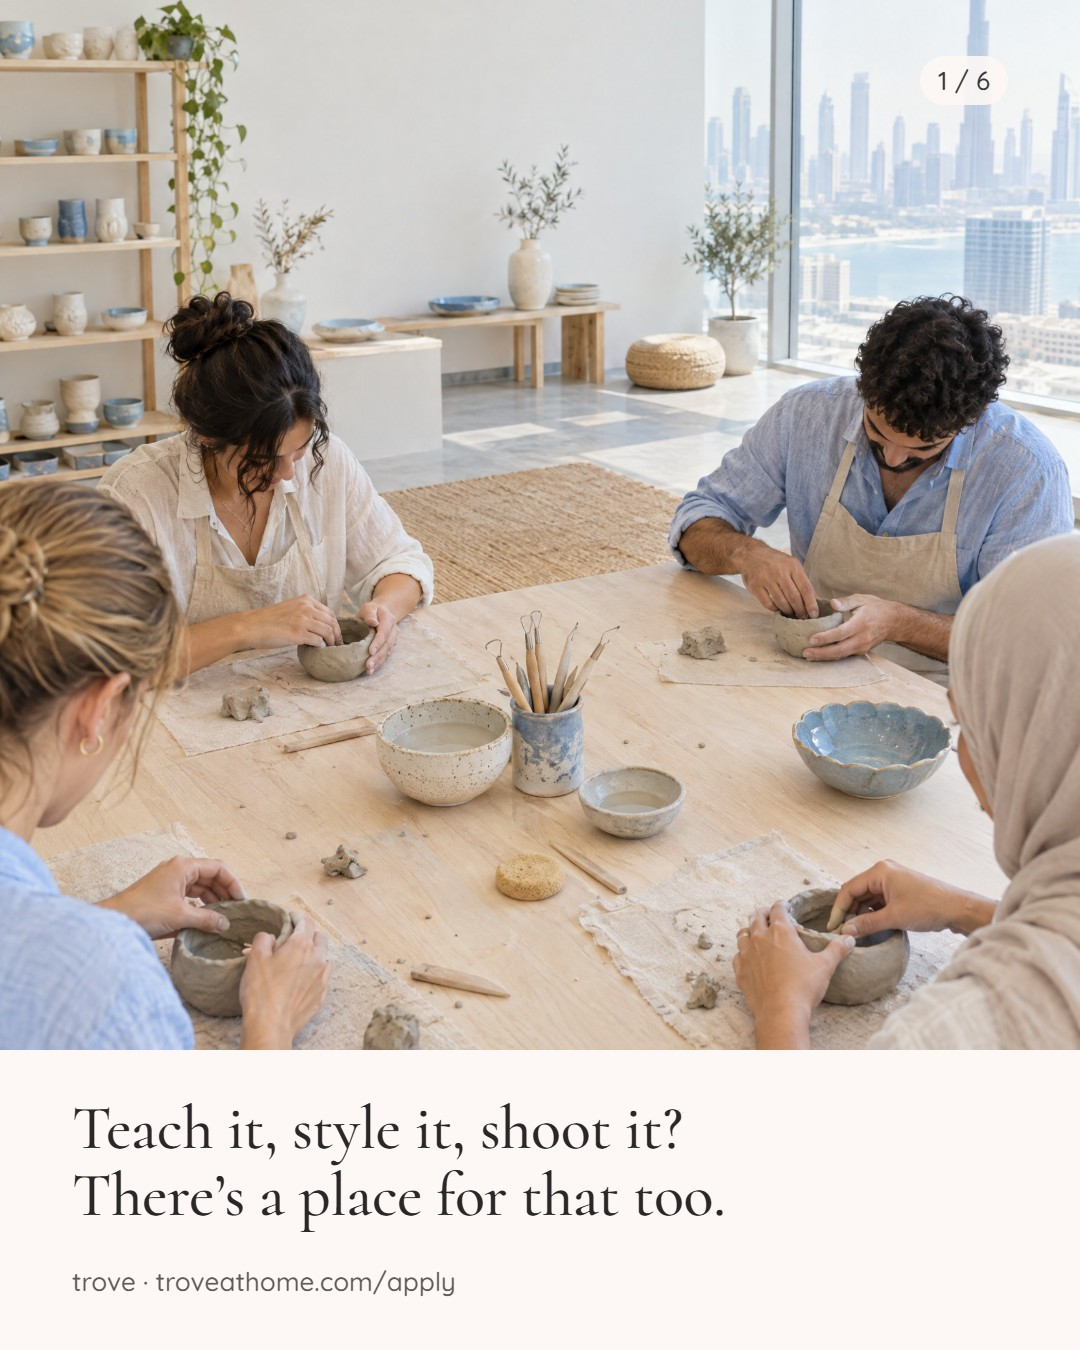
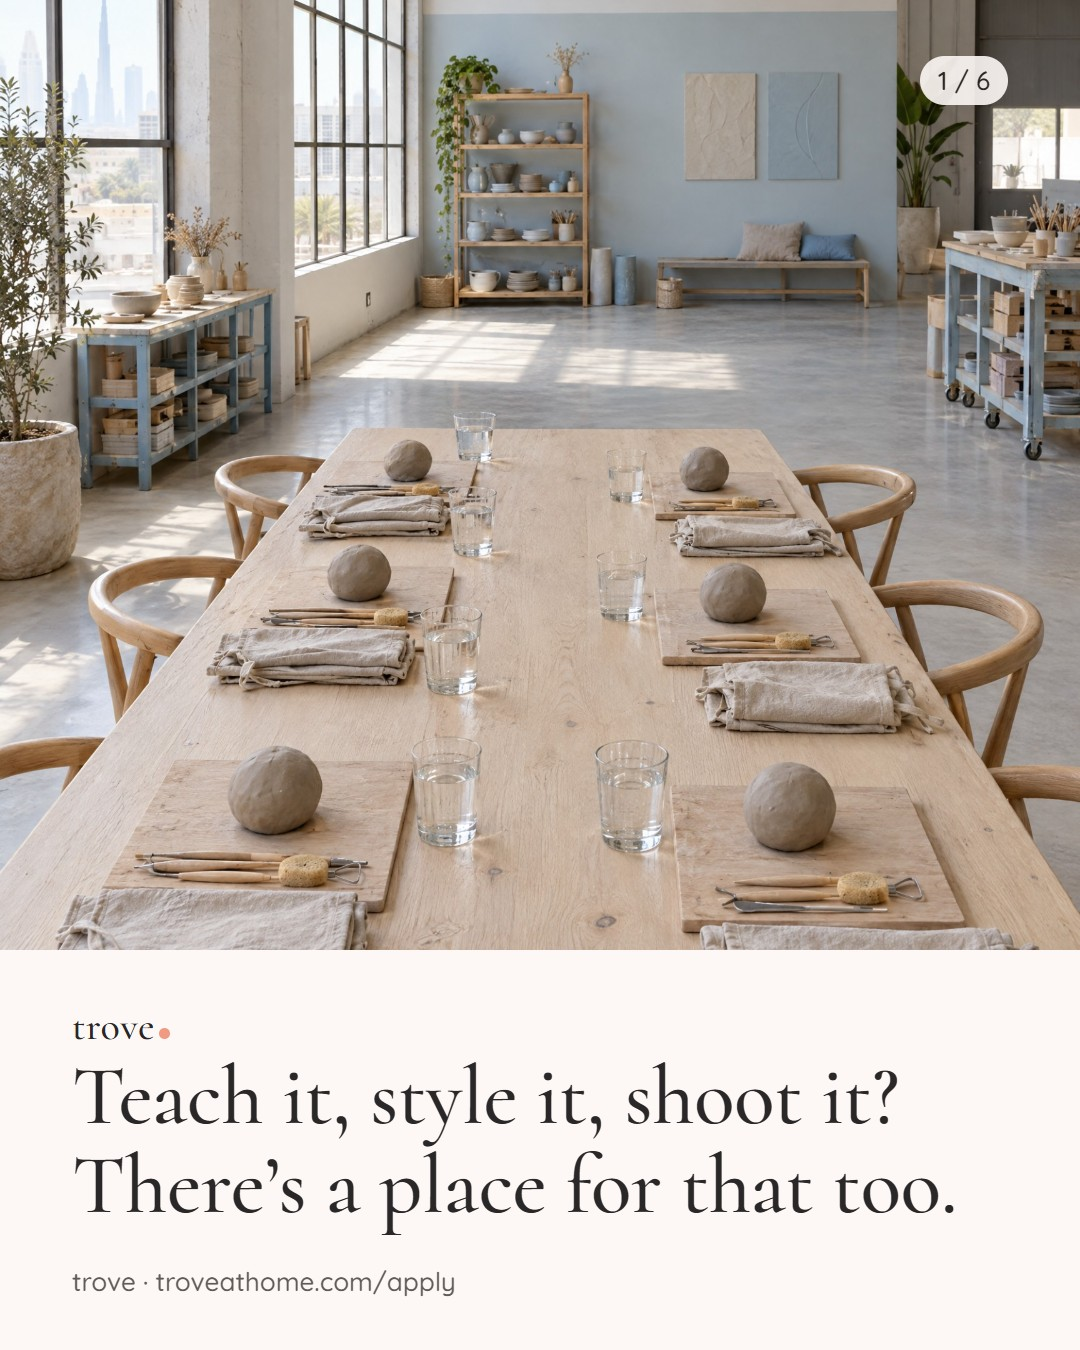
Social: rework Phase 1 creatives to the launch guidance (show craft, mood-only AI images)

diff --git a/social/phase1/gallery.html b/social/phase1/gallery.html
@@ -20,6 +20,7 @@ h1 i{display:inline-block;width:.16em;height:.16em;border-radius:50%;background:
 .key{display:flex;flex-wrap:wrap;gap:10px 18px;margin-top:20px;font-size:14px}
 .chip{display:inline-flex;align-items:center;gap:6px;border-radius:999px;padding:3px 11px;font-size:12.5px;font-weight:600;background:var(--ok);color:var(--fg)}
 .chip.todo{background:var(--todo)}
+.chip.mood{background:transparent;border:1px solid var(--tan)}
 section{border-top:1px solid var(--line);margin-top:44px;padding-top:26px}
 .head{display:flex;flex-wrap:wrap;align-items:baseline;gap:6px 16px}
 h2{font-size:34px;line-height:1.1}
@@ -37,10 +38,11 @@ figcaption{font-size:12.5px;color:var(--muted);display:flex;flex-wrap:wrap;gap:4
 
 <div class="wrap">
   <h1>Trove Phase 1 creatives<i></i></h1>
-  <p class="lede">Every frame for posts 1 to 10 of the founding-maker campaign, in the brand palette and type. Slides are 1080 × 1350 (4:5). Reel frames are 1080 × 1920 (9:16) and keep their text inside the grid-safe centre. Tap any frame to see it full size.</p>
+  <p class="lede">Built to the launch guidance: show the real thing, not just say it. Every post opens on craft (a bench, materials, a studio, a Dubai home), real makers fill the spotlight slots, and generated images are used only for mood and the Collection tease. Every frame for posts 1 to 10 of the founding-maker campaign, in the brand palette and type. Slides are 1080 × 1350 (4:5). Reel frames are 1080 × 1920 (9:16) and keep their text inside the grid-safe centre. Tap any frame to see it full size.</p>
   <div class="key">
     <span><span class="chip">Ready</span> can be posted as it is</span>
     <span><span class="chip todo">Needs input</span> a dashed box or photo slot is still waiting for a real maker, provider or photo</span>
+    <span><span class="chip mood">Mood image</span> made with Higgsfield: materials, tools or spaces only, never shown as a maker’s work</span>
   </div>
   <div id="posts"></div>
   <div class="where">
@@ -50,16 +52,16 @@ figcaption{font-size:12.5px;color:var(--muted);display:flex;flex-wrap:wrap;gap:4
 
 <script>
 const POSTS = {
-  1: ['Made here, by someone', 'Tue 21 Oct', 'Reel', 'Film 3-second hands-at-work clips from 4–5 real makers. Lay the name tag over each clip with the maker’s real first name and neighbourhood. Cover and end card are ready.'],
-  2: ['What you don’t need', 'Fri 24 Oct', 'Carousel, 7 slides', 'Ready to post once a business adviser confirms the “no trade licence to start” line.'],
+  1: ['Made here, by someone', 'Tue 21 Oct', 'Reel', 'Shows real craft across the UAE. Film 3-second hands-at-work clips from 4–5 real makers, lay the name tag over each with their real first name and neighbourhood, and use a frame of that footage as the cover.'],
+  2: ['What you don’t need', 'Fri 24 Oct', 'Carousel, 7 slides', 'Opens on a maker’s bench and closes on raw materials (“just your work”), with the crossed-out list in between. Ready once a business adviser confirms the “no trade licence to start” line.'],
   3: ['Meet our first maker', 'Mon 27 Oct', 'Reel + carousel, 6 slides', 'Needs a real founding maker: name, craft, neighbourhood, years, their own sentence and three photos (portrait, workspace, finished piece).'],
-  4: ['Set your price. Keep 60%', 'Thu 30 Oct', 'Carousel, 6 slides', 'Ready. Figures match the live Sell on Trove page.'],
-  5: ['Teach it, style it, shoot it?', 'Sun 2 Nov', 'Carousel, 6 slides', 'Ready. The cover photo is an illustrative image made with Higgsfield, not a Trove workshop. Swap in a real provider’s class when you have one.'],
-  6: ['Something of our own', 'Wed 5 Nov', 'Single image', 'Two options. The photo version uses an illustrative Higgsfield sketch and glaze-test still. A real photo from the Trove Collection design table is better if you have one. The text-only version is the fallback.'],
-  7: ['Apply in ten minutes', 'Sat 8 Nov', 'Reel', 'Film a real maker applying on their phone, with a timer running. Lay the four step captions over the matching clips. Cover and end card are ready.'],
-  8: ['Meet our first provider', 'Tue 11 Nov', 'Reel', 'Needs a real founding provider filmed mid-class. Fill in the name, service and neighbourhood on the end card.'],
-  9: ['More being made here than you think', 'Fri 14 Nov', 'Carousel, 8 slides', 'Each middle slide needs a real photo of a real maker’s work, with the neighbourhood confirmed. Dubai and Abu Dhabi areas only. AI images are deliberately not used here, because the slides name real places.'],
-  10: ['From sold to paid', 'Mon 17 Nov', 'Reel, 5 scenes', 'Ready as a stills Reel (about 2.5 seconds per frame), or use the scenes as a shot list for real footage. The scene photos are illustrative Higgsfield images.'],
+  4: ['Set your price. Keep 60%', 'Thu 30 Oct', 'Carousel, 6 slides', 'Opens on a blank price tag on a workbench: the maker sets the price. Figures match the live Sell on Trove page.'],
+  5: ['Teach it, style it, shoot it?', 'Sun 2 Nov', 'Carousel, 6 slides', 'Opens on a studio table set for a class, before anyone arrives. Swap in a real provider’s class when you have one.'],
+  6: ['Something of our own', 'Wed 5 Nov', 'Single image', 'Collection tease: a sketch and glaze tests, no finished product. A mood image is allowed here by the strategy. The text-only version is the fallback.'],
+  7: ['Apply in ten minutes', 'Sat 8 Nov', 'Reel', 'Shows how easy it is, with a real maker. Film them applying on their phone with a timer running, lay the four step captions over the matching clips, and use a frame as the cover.'],
+  8: ['Meet our first provider', 'Tue 11 Nov', 'Reel', 'Needs a real founding provider filmed mid-class, with a happy group holding what they made. Fill in the name, service and neighbourhood.'],
+  9: ['More being made here than you think', 'Fri 14 Nov', 'Carousel, 8 slides', 'Opens on a home studio window over a Dubai neighbourhood. Each middle slide needs a real photo of a real maker’s work with the neighbourhood confirmed (Dubai and Abu Dhabi only). No AI images there, because the slides name real makers and places.'],
+  10: ['From sold to paid', 'Mon 17 Nov', 'Reel, 5 scenes', 'The five steps from the site, shown in Dubai homes. Ready as a stills Reel (about 2.5 seconds a frame), or use the scenes as a shot list for real footage. No finished pieces appear.'],
 };
 const label = (f) => f.split('/').pop().replace(/\.(png|jpg)$/, '').replace('slide-', 'Slide ').replace('scene-', 'Scene ').replace('step-', 'Step ').replace('name-tag', 'Name tag (overlay)').replace('cover', 'Cover').replace('end', 'End card').replace('photo', 'Photo version').replace('type', 'Text-only version');
 fetch('out/manifest.json').then((r) => r.json()).then((m) => {
@@ -70,7 +72,7 @@ fetch('out/manifest.json').then((r) => r.json()).then((m) => {
     const ready = frames.filter((x) => x.ready).length;
     const s = document.createElement('section');
     s.id = 'post' + n;
-    s.innerHTML = `<div class="head"><h2>${n}. ${title}</h2><span class="meta">${date} · ${format} · ${ready} of ${frames.length} frames ready</span></div><p class="notes">${notes}</p><div class="grid">${frames.map((f) => `<figure><a href="out/${f.file}" target="_blank" rel="noopener"><img loading="lazy" src="out/${f.file}" alt="Post ${n}, ${label(f.file)}"></a><figcaption>${label(f.file)}${/step|scene/.test(f.file) && f.layout === 'lower-third' ? ' (overlay)' : ''} <span class="chip ${f.ready ? '' : 'todo'}">${f.ready ? 'Ready' : 'Needs input'}</span></figcaption></figure>`).join('')}</div>`;
+    s.innerHTML = `<div class="head"><h2>${n}. ${title}</h2><span class="meta">${date} · ${format} · ${ready} of ${frames.length} frames ready</span></div><p class="notes">${notes}</p><div class="grid">${frames.map((f) => `<figure><a href="out/${f.file}" target="_blank" rel="noopener"><img loading="lazy" src="out/${f.file}" alt="Post ${n}, ${label(f.file)}"></a><figcaption>${label(f.file)}${/step|scene/.test(f.file) && f.layout === 'lower-third' ? ' (overlay)' : ''} <span class="chip ${f.ready ? '' : 'todo'}">${f.ready ? 'Ready' : 'Needs input'}</span>${f.mood ? ' <span class="chip mood">Mood image</span>' : ''}</figcaption></figure>`).join('')}</div>`;
     root.appendChild(s);
   }
 }).catch(() => { document.getElementById('posts').innerHTML = '<p class="lede">The frame list did not load. Refresh the page to try again.</p>'; });

diff --git a/social/phase1/frames.js b/social/phase1/frames.js
@@ -1,12 +1,14 @@
 // Every frame for Phase 1 posts 1–10. Copy matches the "Trove Phase 1 social drafts" doc.
 // Square-bracketed text renders as a dashed placeholder box: fill it in before posting.
 // photo: a file name in ./photos — rendered when present, otherwise a labelled photo slot.
+// mood: true = a generated mood image (materials, tools, spaces). The strategy allows these only for mood
+// and Collection teases, never as a maker's work — real makers' pieces and hands always come from real photos.
 
 const APPLY = 'Apply in ten minutes.';
 
 module.exports = [
   // 1. Made here, by someone (Reel)
-  { post: 1, id: 'cover', kind: 'reel', bg: 'cream', layout: 'cover',
+  { post: 1, id: 'cover', kind: 'reel', bg: 'cream', layout: 'reel-cover-photo', photo: 'p1-cover.jpg', slot: 'A frame from the real hands-at-work footage',
     kicker: 'Trove is opening to UAE makers', title: 'Made here,|by someone.' },
   { post: 1, id: 'name-tag', kind: 'reel', bg: 'clear', layout: 'lower-third',
     text: '[First name], [neighbourhood]', note: 'One per clip, e.g. Sara, Al Barsha' },
@@ -14,8 +16,8 @@ module.exports = [
     title: 'Made here,|by someone.', body: 'Trove is opening to UAE makers.' },
 
   // 2. What you don't need (Carousel, 7)
-  { post: 2, id: '1', kind: 'slide', bg: 'cream', layout: 'hero',
-    title: 'To sell on Trove,|you don’t need…', foot: 'Swipe' },
+  { post: 2, id: '1', kind: 'slide', bg: 'cream', layout: 'photo', big: true, photo: 'p2-bench.jpg', mood: true,
+    caption: 'To sell on Trove,|you don’t need…' },
   ...[
     ['A trade licence', 'Not to start. Trove buys each piece from you and resells it.'],
     ['A website', 'Your shop lives on Trove.'],
@@ -23,10 +25,11 @@ module.exports = [
     ['A courier', 'We collect from your door in Dubai and Abu Dhabi.'],
     ['An upfront fee', 'Nothing to join. Nothing to pay if nothing sells.'],
   ].map(([strike, body], i) => ({ post: 2, id: String(i + 2), kind: 'slide', bg: 'cream', layout: 'strike', strike, body })),
-  { post: 2, id: '7', kind: 'slide', bg: 'sage', layout: 'cta', title: 'Just your work.', body: APPLY },
+  { post: 2, id: '7', kind: 'slide', bg: 'cream', layout: 'photo', big: true, photo: 'p2-materials.jpg', mood: true,
+    caption: 'Just your work.', sub: APPLY },
 
   // 3. Meet our first maker (Reel + carousel, 6)
-  { post: 3, id: 'cover', kind: 'reel', bg: 'clay', layout: 'cover',
+  { post: 3, id: 'cover', kind: 'reel', bg: 'clay', layout: 'reel-cover-photo', photo: 'p3-cover.jpg', slot: 'A frame from the maker’s own footage',
     kicker: 'A founding maker on Trove', title: 'Meet our|first maker.' },
   { post: 3, id: 'end', kind: 'reel', bg: 'cream', layout: 'end',
     title: '[Maker].', body: '[Craft], [neighbourhood].|A founding maker on Trove.' },
@@ -39,7 +42,7 @@ module.exports = [
   { post: 3, id: '6', kind: 'slide', bg: 'sage', layout: 'cta', title: 'Founding makers|are joining now.', body: APPLY },
 
   // 4. Set your price. Keep 60% (Carousel, 6)
-  { post: 4, id: '1', kind: 'slide', bg: 'cream', layout: 'hero', title: 'Set your price.|Keep 60%.', foot: 'Swipe' },
+  { post: 4, id: '1', kind: 'slide', bg: 'cream', layout: 'photo', big: true, photo: 'p4-tag.jpg', mood: true, caption: 'Set your price.|Keep 60%.' },
   { post: 4, id: '2', kind: 'slide', bg: 'cream', layout: 'figure', small: 'Price a piece at', figure: 'AED 150' },
   { post: 4, id: '3', kind: 'slide', bg: 'sage', layout: 'split', small: 'When it sells', figure: 'AED 90', body: 'is yours.' },
   { post: 4, id: '4', kind: 'slide', bg: 'cream', layout: 'list', title: 'The AED 60 covers',
@@ -50,7 +53,7 @@ module.exports = [
     body: 'Nothing to pay if nothing sells.|' + APPLY },
 
   // 5. Teach it, style it, shoot it? (Carousel, 6)
-  { post: 5, id: '1', kind: 'slide', bg: 'cream', layout: 'photo', photo: 'p5-workshop.jpg', slot: 'A workshop in progress',
+  { post: 5, id: '1', kind: 'slide', bg: 'cream', layout: 'photo', photo: 'p5-studio.jpg', mood: true, big: true, slot: 'A workshop in progress',
     caption: 'Teach it, style it, shoot it?|There’s a place for that too.' },
   { post: 5, id: '2', kind: 'slide', bg: 'cream', layout: 'list', title: 'Trove lists services|from UAE independents',
     items: ['Workshops', 'Interior styling', 'Photography'] },
@@ -68,19 +71,19 @@ module.exports = [
     body: 'The Trove Collection. More when it is ready.', note: 'Text-only fallback if the photo is not ready' },
 
   // 7. Apply in ten minutes (Reel)
-  { post: 7, id: 'cover', kind: 'reel', bg: 'sage', layout: 'cover', kicker: 'We timed it', title: 'Apply in|ten minutes.' },
+  { post: 7, id: 'cover', kind: 'reel', bg: 'sage', layout: 'reel-cover-photo', photo: 'p7-cover.jpg', slot: 'A frame of the maker at the kitchen table, timer running', kicker: 'We timed it', title: 'Apply in|ten minutes.' },
   ...['Open troveathome.com/apply', 'Tell us about you and your craft', 'List what you plan to sell', 'Submit']
     .map((text, i) => ({ post: 7, id: 'step-' + (i + 1), kind: 'reel', bg: 'clear', layout: 'lower-third', text, step: i + 1 })),
   { post: 7, id: 'end', kind: 'reel', bg: 'cream', layout: 'end', title: 'A real person reads|every application.',
     body: 'Usually within a day or two.' },
 
   // 8. Meet our first provider (Reel)
-  { post: 8, id: 'cover', kind: 'reel', bg: 'blue', layout: 'cover', kicker: 'A founding provider on Trove', title: 'Meet our|first provider.' },
+  { post: 8, id: 'cover', kind: 'reel', bg: 'blue', layout: 'reel-cover-photo', photo: 'p8-cover.jpg', slot: 'A frame from the class in progress', kicker: 'A founding provider on Trove', title: 'Meet our|first provider.' },
   { post: 8, id: 'end', kind: 'reel', bg: 'cream', layout: 'end',
     title: '[Provider].', body: '[Service], [neighbourhood].|A founding provider on Trove.' },
 
   // 9. More being made here than you think (Carousel, 8)
-  { post: 9, id: '1', kind: 'slide', bg: 'cream', layout: 'hero', title: 'There is more being|made here than|you think.', foot: 'Swipe' },
+  { post: 9, id: '1', kind: 'slide', bg: 'cream', layout: 'photo', big: true, photo: 'p9-window.jpg', mood: true, caption: 'There is more being made|here than you think.' },
   ...[
     ['Stoneware, thrown in [Al Quoz].', 'p9-stoneware.jpg'],
     ['Rugs, woven in [Mirdif].', 'p9-rugs.jpg'],
@@ -93,8 +96,8 @@ module.exports = [
   { post: 9, id: '8', kind: 'slide', bg: 'sage', layout: 'cta', title: 'Made here?', body: APPLY },
 
   // 10. From sold to paid (Reel)
-  { post: 10, id: 'cover', kind: 'reel', bg: 'clay', layout: 'cover', kicker: 'From sold to paid', title: 'We collect.|We deliver.|You get paid.' },
+  { post: 10, id: 'cover', kind: 'reel', bg: 'clay', layout: 'reel-cover-photo', photo: 'p10-scene3.jpg', mood: true, kicker: 'From sold to paid', title: 'We collect.|We deliver.|You get paid.' },
   ...['It sells.', 'You pack it.', 'We collect.', 'It’s delivered.', 'You’re paid. Every other Tuesday.']
-    .map((text, i) => ({ post: 10, id: 'scene-' + (i + 1), kind: 'reel', bg: 'cream', layout: 'reel-photo', photo: 'p10-scene' + (i + 1) + '.jpg', text, step: i + 1 })),
+    .map((text, i) => ({ post: 10, id: 'scene-' + (i + 1), kind: 'reel', bg: 'cream', layout: 'reel-photo', photo: ['p10-scene1.jpg', 'p10-pack.jpg', 'p10-scene3.jpg', 'p10-parcel.jpg', 'p10-tuesday.jpg'][i], mood: true, text, step: i + 1 })),
   { post: 10, id: 'end', kind: 'reel', bg: 'sage', layout: 'end', title: 'We collect.|We deliver.|You get paid.' },
 ];

diff --git a/social/phase1/render.js b/social/phase1/render.js
@@ -66,10 +66,12 @@ function inner(f, n, total) {
     case 'quote':
       return `${wm}${counter}<div class="box" style="top:340px"><div class="d" style="font-size:86px;line-height:1.12">${fmt(f.title)}</div><p class="body" style="margin-top:50px;opacity:.75">${fmt(f.body)}</p></div>${url}`;
     case 'photo': {
-      const band = 300;
+      const band = f.big ? 400 : 300;
+      const size = f.big ? 84 : f.caption && f.caption.length > 34 ? 62 : 74;
       return `<div style="position:absolute;left:0;right:0;top:0;height:${h - band}px">${photoTag(f)}</div>
         <div style="position:absolute;left:0;right:0;bottom:0;height:${band}px;background:#FDF7F5"></div>
-        <div class="box" style="bottom:120px"><div class="d" style="font-size:${f.caption && f.caption.length > 34 ? 62 : 74}px;line-height:1.08">${fmt(f.caption || '')}</div></div>
+        ${f.big ? '<div class="wm" style="top:auto;bottom:' + (band - 96) + 'px;font-size:40px">trove<i></i></div>' : ''}
+        <div class="box" style="bottom:120px"><div class="d" style="font-size:${size}px;line-height:1.06">${fmt(f.caption || '')}</div>${f.sub ? `<p class="body" style="margin-top:14px;font-size:36px">${fmt(f.sub)}</p>` : ''}</div>
         <div class="url" style="bottom:52px;font-size:26px">trove · troveathome.com/apply</div>${counter.replace('class="ct"', 'class="ct" style="background:#FDF7F5;padding:8px 18px;border-radius:999px;opacity:.9;top:56px"')}`;
     }
     case 'cover':
@@ -78,6 +80,8 @@ function inner(f, n, total) {
       return `<div class="wm" style="left:0;right:0;text-align:center;top:300px">trove<i></i></div><div style="position:absolute;left:90px;right:90px;top:0;bottom:0;display:flex;flex-direction:column;justify-content:center;align-items:center;text-align:center"><div class="d" style="font-size:128px;line-height:1.04">${fmt(f.title)}</div>${f.body ? `<p class="body" style="margin-top:44px;font-size:44px">${fmt(f.body)}</p>` : ''}<p class="body" style="margin-top:70px;font-size:40px">Apply in ten minutes.</p><div style="margin-top:26px"><span class="pill" style="font-size:40px">troveathome.com/apply</span></div></div>`;
     case 'lower-third':
       return `<div style="position:absolute;left:0;right:0;top:1330px;text-align:center"><span class="pill" style="background:#FDF7F5;color:#292727;font-size:46px;padding:30px 54px;box-shadow:0 8px 30px rgba(0,0,0,.12)">${fmt(f.text)}</span></div>`;
+    case 'reel-cover-photo':
+      return `<div style="position:absolute;inset:0;${f.photo && fs.existsSync(path.join(PHOTOS, f.photo)) ? '' : 'bottom:910px'}">${photoTag(f)}</div><div style="position:absolute;left:90px;right:90px;top:1010px;background:#FDF7F5;border-radius:6px;padding:56px 56px 60px;text-align:center"><div class="wm" style="position:static;font-size:44px">trove<i></i></div><div class="small" style="font-size:34px;margin-top:26px">${fmt(f.kicker)}</div><div class="d" style="font-size:112px;line-height:1.02;margin-top:22px">${fmt(f.title)}</div></div>`;
     case 'reel-photo':
       return `${photoTag(f)}<div style="position:absolute;left:0;right:0;top:1330px;text-align:center"><span class="pill" style="background:#FDF7F5;color:#292727;font-size:50px;padding:32px 58px">${fmt(f.text)}</span></div>`;
   }
@@ -103,7 +107,7 @@ function inner(f, n, total) {
     const name = (/^\d+$/.test(f.id) ? 'slide-' + f.id.padStart(2, '0') : f.id) + (jpg ? '.jpg' : '.png');
     await page.screenshot(jpg ? { path: path.join(dir, name), type: 'jpeg', quality: 90 } : { path: path.join(dir, name), omitBackground: f.bg === 'clear' });
     const placeholders = /\[/.test(JSON.stringify(f)) || (f.photo && !fs.existsSync(path.join(PHOTOS, f.photo)));
-    manifest.push({ post: f.post, file: `post-${String(f.post).padStart(2, '0')}/${name}`, kind: f.kind, layout: f.layout, ready: !placeholders, note: f.note || '' });
+    manifest.push({ post: f.post, file: `post-${String(f.post).padStart(2, '0')}/${name}`, kind: f.kind, layout: f.layout, ready: !placeholders, mood: !!f.mood, note: f.note || '' });
   }
   fs.rmSync(path.join(__dirname, '_frame.html'), { force: true });
   fs.writeFileSync(path.join(OUT, 'manifest.json'), JSON.stringify(manifest, null, 2));
